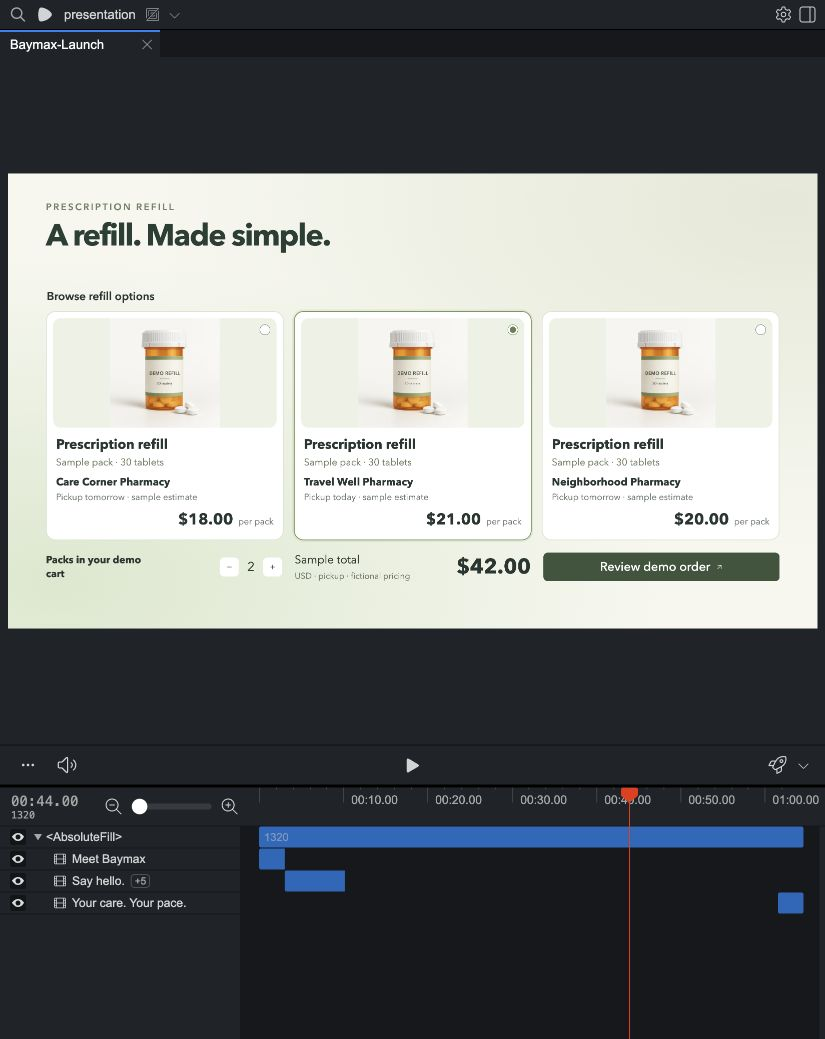
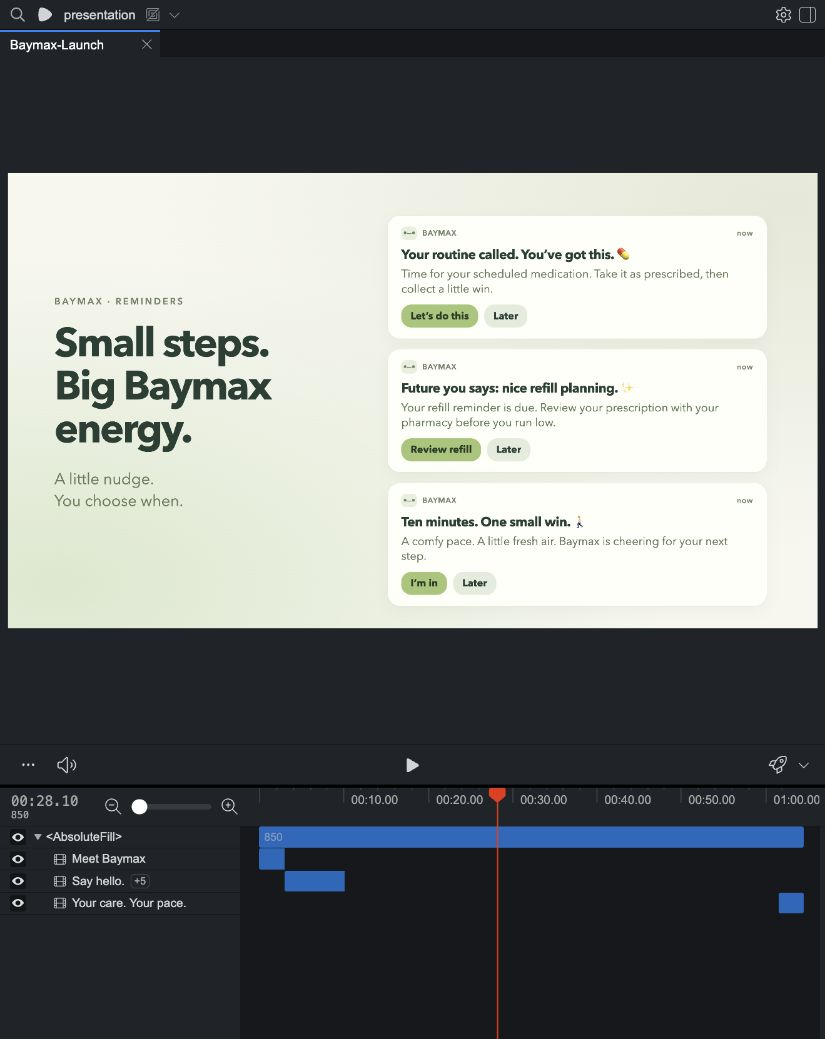
Replace reminder phone mockup with large notification cards

diff --git a/presentation/src/video.css b/presentation/src/video.css
@@ -34,3 +34,6 @@
 .rx-product-thumb{width:120px;height:100px;object-fit:cover;border-radius:12px}.rx-card-image{width:100%;height:260px;object-fit:cover;border-radius:18px}.rx-card-title,.rx-card-detail{display:block}
 .variant-shopping .scene-copy{left:90px;top:65px;width:1700px}.variant-shopping .scene-copy h2{font-size:72px;white-space:normal;letter-spacing:-3px}.variant-shopping .scene-copy .scene-kicker{margin-bottom:16px}.variant-shopping .scene-rule{display:none}.variant-shopping .feature-stage{left:90px;top:250px;width:1740px;height:755px}.variant-shopping .component-app .rx-shopping{background:transparent;box-shadow:none;border:0;padding:0;grid-template-columns:1fr 1fr 1fr;gap:16px 30px}.variant-shopping .rx-heading,.variant-shopping .rx-product,.variant-shopping .fine{display:none!important}.variant-shopping .component-app .rx-shopping .rx-pharmacies{display:grid;grid-template-columns:repeat(3,1fr);gap:24px;border:0;margin:0;padding:0}.variant-shopping .rx-pharmacies legend{font-size:27px;margin:0 0 16px}.variant-shopping .component-app .rx-shopping .rx-pharmacy{display:flex;flex-direction:column;align-items:stretch;position:relative;padding:15px 15px 22px;border-radius:23px;background:#fff;border:2px solid #dce4d5;margin:0;gap:0;font-size:25px}.variant-shopping .component-app .rx-shopping .rx-pharmacy.selected{border-color:#78975d;box-shadow:0 0 0 4px #8dab5c24}.variant-shopping .rx-pharmacy input{position:absolute;right:30px;top:30px;accent-color:#64834d}.variant-shopping .rx-card-title{font-size:32px;font-weight:650;margin:18px 7px 5px}.variant-shopping .rx-card-detail{font-size:23px;color:#708064;margin:0 7px 14px}.variant-shopping .rx-pharmacy>span:not(.rx-card-title):not(.rx-card-detail):not(.demo-cue){margin:0 7px}.variant-shopping .rx-pharmacy small{font-size:21px!important}.variant-shopping .rx-pharmacy>strong{font-size:37px!important;margin:13px 7px 0}.variant-shopping .rx-pharmacy>strong small{display:inline;margin-left:12px;font-weight:400}.variant-shopping .component-app .rx-shopping .rx-quantity{grid-column:1!important;grid-row:2!important;font-size:24px}.variant-shopping .component-app .rx-shopping .rx-total{grid-column:2!important;grid-row:2!important;border:0}.variant-shopping .component-app .rx-shopping .rx-checkout{grid-column:3!important;grid-row:2!important;align-self:center}.variant-shopping .rx-quantity>div:first-child{max-width:230px}
 .variant-shopping .rx-card-image{object-fit:contain;background:#edf2e5}
+
+/* Standalone reminders keep the content readable without a device mockup. */
+.reminder-copy{left:110px;width:700px;top:290px}.reminder-copy h2{font-size:96px;letter-spacing:-4px}.reminder-cards{position:absolute;left:900px;top:100px;width:900px;display:flex;flex-direction:column;gap:24px}.reminder-card{background:#fcfff7;border:1px solid #dfe8d5;border-radius:30px;padding:26px 32px;box-shadow:0 12px 35px #304f320d}.reminder-card .notification-source{font-size:18px;letter-spacing:1px;align-items:center}.reminder-card .notification-source>span:first-child{display:flex;align-items:center;gap:12px}.notification-face{font-style:normal;letter-spacing:0;background:#e8efde;border-radius:12px;width:38px;height:32px;display:grid;place-items:center}.reminder-card h3{font-size:31px;line-height:1.2;letter-spacing:-.7px;margin:17px 0 10px}.reminder-card p{font-size:27px;line-height:1.3;color:#65775a;margin:0}.reminder-card .notification-actions{font-size:24px;margin-top:19px;gap:14px}.reminder-card .notification-actions span{padding:11px 22px}.reminder-card .notification-actions span:first-child{background:#a6c675}

diff --git a/presentation/src/demo/ReminderDemo.tsx b/presentation/src/demo/ReminderDemo.tsx
@@ -7,5 +7,5 @@ const notifications=[
 ];
 export const ReminderDemo=()=>{
  const frame=useCurrentFrame();
- return <div className="reminder-phone"><div className="phone-status"><b>9:41</b><span className="phone-island"/><span>▰ ▰</span></div><div className="phone-date">Sunday, October 4</div><div className="phone-clock">9:41</div><div className="phone-face">•—•</div><div className="phone-notifications">{notifications.map(n=>{const progress=interpolate(frame,[n.at,n.at+14],[0,1],{extrapolateLeft:'clamp',extrapolateRight:'clamp'});return <div key={n.at} className="phone-notification" style={{opacity:progress,transform:`translateY(${(1-progress)*22}px)`}}><div className="notification-source"><span>● BAYMAX</span><span>now</span></div><h3>{n.title}</h3><p>{n.body}</p><div className="notification-actions"><span>{n.action}</span><span>Later</span></div></div>;})}</div><div className="phone-footer">Your next small win is waiting. You choose when.</div><div className="phone-home"/></div>;
+ return <div className="reminder-cards">{notifications.map(n=>{const progress=interpolate(frame,[n.at,n.at+14],[0,1],{extrapolateLeft:'clamp',extrapolateRight:'clamp'});return <div key={n.at} className="reminder-card" style={{opacity:progress,transform:`translateY(${(1-progress)*28}px)`}}><div className="notification-source"><span><i className="notification-face">•—•</i> BAYMAX</span><span>now</span></div><h3>{n.title}</h3><p>{n.body}</p><div className="notification-actions"><span>{n.action}</span><span>Later</span></div></div>;})}</div>;
 };

diff --git a/presentation/README.md b/presentation/README.md
@@ -21,7 +21,7 @@ Open http://localhost:3100/Baymax-Launch. No exported video is included.
 - `src/demo/demo-app.css` and `src/video.css`: large UI typography and presentation layout.
 - `public/mascot/`: Baymax sprite assets.
 
-Sequence: Baymax introduction → medical appointment preparation and daily check-in → phone reminders → travel preparation → prescription review → doctor brief and email review → closing.
+Sequence: Baymax introduction → medical appointment preparation and daily check-in → notification cards → travel preparation → prescription review → doctor brief and email review → closing.
 
 The scenes use local example data and do not call the app backend, place orders, or send email. UI steps advance according to the composition frame. The prescription and email flows show review and confirmation boundaries.
 
@@ -47,6 +47,8 @@ The Baymax adaptation keeps its approximately 65-second sequence, sage/cream/for
 
 Claims remain limited to the example UI: conversation, daily care steps, travel preparation, simulated refill review, and a health-brief email draft. No backend execution is implied. TypeScript and representative intro/demo/outro frames were checked in Studio; no video export was rendered.
 
-The reminder phone scene recreates the user-supplied Baymax reminder UI as editable components. Medication, refill, and movement notifications enter in sequence over eight seconds. The appointment example uses symptoms, medication review, and questions for a doctor; no hackathon scenario remains. The positioning describes security and compliance as design intent, not a certification claim.
+The reminder card scene recreates the user-supplied Baymax reminder UI as editable components. Medication, refill, and movement notifications enter in sequence over eight seconds. The appointment example uses symptoms, medication review, and questions for a doctor; no hackathon scenario remains. The positioning describes security and compliance as design intent, not a certification claim.
 
 Prescription browsing uses three image-led pharmacy cards with a locally bundled sample refill image in `public/medicines/`. These represent the same sample refill, not alternative medication recommendations. Selected packaging carries into the review card; pharmacy names, availability, and prices remain illustrative.
+
+Reminders are presented as large standalone cards with staggered entrances; the device frame and lock-screen chrome have been removed.
